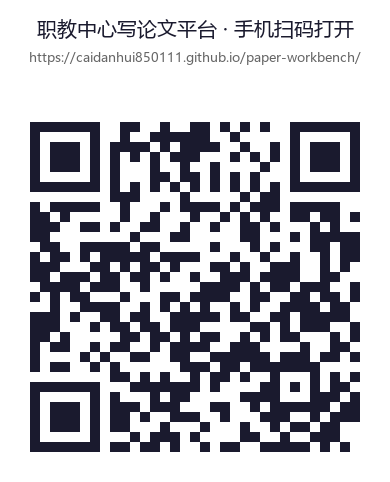
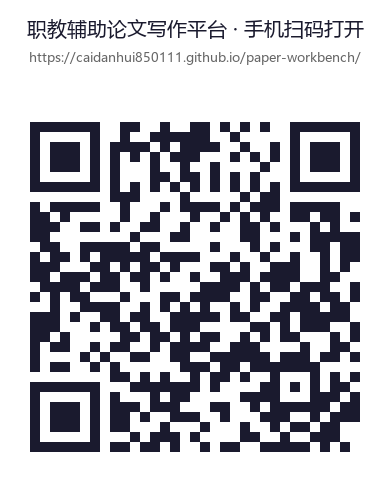
平台名称改为「职教辅助论文写作平台」（HTML/README/二维码/说明全量替换）

Changed region(s): [[0.0615, 0.0311, 0.9231, 0.0934]]

diff --git a/dist/index.html b/dist/index.html
@@ -8,7 +8,7 @@
 <meta http-equiv="Expires" content="0">
 <meta http-equiv="Pragma" content="no-cache">
 <meta http-equiv="Expires" content="0">
-<title>职教中心写论文平台 · 试水版 v0.1</title>
+<title>职教辅助论文写作平台 · 试水版 v0.1</title>
 <style>
 :root{
   --bg:#f4f5f9; --card:#ffffff; --card2:#f9fafc; --text:#1c2333; --muted:#6b7280; --line:#e5e7eb;
@@ -216,7 +216,7 @@ table.data td.l,table.data th.l{text-align:left}
     <button id="hamburger" class="btn tip" aria-label="菜单" data-tip="打开全部功能菜单（10 个模块）">
       <svg width="20" height="20" viewBox="0 0 24 24" fill="none" stroke="currentColor" stroke-width="2" stroke-linecap="round"><path d="M4 6h16M4 12h16M4 18h16"/></svg><span id="hb-label" style="display:none">菜单</span>
     </button>
-    <div class="page-title" id="page-title">职教中心写论文平台</div>
+    <div class="page-title" id="page-title">职教辅助论文写作平台</div>
     <div class="spacer"></div>
     <input id="search-input" placeholder="全局搜索…" autocomplete="off">
     <button id="today-btn" class="btn" title="今日待办">
@@ -1051,7 +1051,7 @@ const state={docId:null,chIdx:0,theme:'light',econStep:1,econDS:null,subTab:1};
 let currentPage='progress';
 function go(page,param){
   currentPage=page;state._p=param;
-  $('#page-title').textContent=(NAV.find(n=>n.id===page)||{}).name||'职教中心写论文平台';
+  $('#page-title').textContent=(NAV.find(n=>n.id===page)||{}).name||'职教辅助论文写作平台';
   renderNav();
   const c=$('#content');c.innerHTML='';
   PAGES[page](c,param);
@@ -1063,7 +1063,7 @@ window.addEventListener('popstate',()=>{
   const p=location.hash.replace('#','');
   if(p&&PAGES[p]){
     currentPage=p;
-    $('#page-title').textContent=(NAV.find(n=>n.id===p)||{}).name||'职教中心写论文平台';
+    $('#page-title').textContent=(NAV.find(n=>n.id===p)||{}).name||'职教辅助论文写作平台';
     renderNav();
     const c=$('#content');c.innerHTML='';
     PAGES[p](c,state._p);
@@ -1071,8 +1071,8 @@ window.addEventListener('popstate',()=>{
 });
 function renderNav(){
   const html=NAV.map(n=>`<button class="nav-item tip ${currentPage===n.id?'active':''}" data-page="${n.id}" data-tip="${esc(n.desc||'')}">${n.icon}<span>${n.name}</span></button>`).join('');
-  $('#sidebar').innerHTML=html+'<div class="side-foot">职教中心写论文平台 v0.1 · 试水版<br>数据保存在本浏览器 localStorage</div>';
-  $('#drawer').innerHTML='<div style="padding:8px 12px;font-weight:600;font-size:16px;margin-bottom:8px">职教中心写论文平台</div>'+html;
+  $('#sidebar').innerHTML=html+'<div class="side-foot">职教辅助论文写作平台 v0.1 · 试水版<br>数据保存在本浏览器 localStorage</div>';
+  $('#drawer').innerHTML='<div style="padding:8px 12px;font-weight:600;font-size:16px;margin-bottom:8px">职教辅助论文写作平台</div>'+html;
   $$('.nav-item').forEach(b=>b.onclick=()=>{closeDrawer();go(b.dataset.page);});
 }
 function openDrawer(){$('#drawer').classList.add('open');$('#drawer-mask').classList.add('open');}
@@ -2479,14 +2479,14 @@ function econExport(root,ds){
   $('#ex-csv').onclick=()=>{let csv=ds.headers.join(',')+'\n';ds.rows.forEach(r=>{csv+=ds.headers.map(h=>typeof r[h]==='number'?r[h]:String(r[h]??'')).join(',')+'\n';});download(ds.name+'_处理后.csv',csv,'text/csv;charset=utf-8');};
   $('#ex-do').onclick=()=>{
     const cols=numericCols(ds);
-    let dof='* 职教中心写论文平台生成 · 请用 Stata 复核\nclear\nimport delimited "data.csv", clear\n';
+    let dof='* 职教辅助论文写作平台生成 · 请用 Stata 复核\nclear\nimport delimited "data.csv", clear\n';
     cols.forEach(c=>dof+=`summarize ${c}\n`);
     if(ds._ols){const xs=ds._xNames.join(' ');dof+=`regress ${ds._yName} ${xs}\n`;}
     download(ds.name+'.do',dof);
   };
   $('#ex-r').onclick=()=>{
     const cols=numericCols(ds);
-    let rs='# 职教中心写论文平台生成 · 请用 R 复核\nlibrary(tidyverse)\n';
+    let rs='# 职教辅助论文写作平台生成 · 请用 R 复核\nlibrary(tidyverse)\n';
     rs+=`df <- read.csv("data.csv")\n`;
     rs+=`summary(df)\n`;
     if(ds._ols){rs+=`fit <- lm(${ds._yName} ~ ${ds._xNames.join(' + ')}, data=df)\nsummary(fit)\n`;}
@@ -2888,7 +2888,7 @@ function settingsPage(root){
   <div class="card">
     <h3>关于</h3>
     <div class="muted" style="font-size:13px;line-height:1.8">
-      职教中心写论文平台 v0.1 · 试水版（2026-08-03）<br>
+      职教辅助论文写作平台 v0.1 · 试水版（2026-08-03）<br>
       · 纯前端零依赖，数据存浏览器本地；<br>
       · 选刊为统计关键词匹配，计量计算在本地完成，正式投稿请用 Stata/R 复核；<br>
       · 配 LLM Key 后启用真 AI（默认 DeepSeek），未配则用本地模板；<br>
@@ -2899,10 +2899,10 @@ function settingsPage(root){
   $$('[data-theme]',root).forEach(b=>b.onclick=()=>{st.theme=b.dataset.theme;Settings.save(st);apply();});
   $('#set-save').onclick=()=>{cfg.provider=$('#set-prov').value;cfg.apiKey=$('#set-key').value.trim();cfg.baseUrl=$('#set-base').value.trim();cfg.model=$('#set-model').value.trim()||'deepseek-chat';cfg.enabled=!!cfg.apiKey;LLM.save(cfg);$('#set-state').textContent=cfg.enabled?'已启用':'未启用（模板模式）';toast('配置已保存'+(cfg.enabled?'，LLM 已启用':'，未启用'));};
   $('#set-test').onclick=async()=>{cfg.apiKey=$('#set-key').value.trim();cfg.baseUrl=$('#set-base').value.trim();cfg.model=$('#set-model').value.trim()||'deepseek-chat';LLM.save(cfg);const s=$('#set-state');s.textContent='测试中…';try{const r=await llmAsk('你好，请回复"连接正常"四个字。');s.textContent=r.includes('连接正常')?'连接正常 ✓':('返回：'+r.slice(0,20));toast('连接测试完成');}catch(e){s.textContent='连接失败：'+e.message;toast('连接失败');}};
-  $('#set-export').onclick=()=>{download('职教中心写论文平台备份_'+todayStr()+'.json',JSON.stringify(Store.all(),null,2),'application/json');toast('备份已导出');};
+  $('#set-export').onclick=()=>{download('职教辅助论文写作平台备份_'+todayStr()+'.json',JSON.stringify(Store.all(),null,2),'application/json');toast('备份已导出');};
   $('#set-import').onclick=()=>$('#set-import-file').click();
   $('#set-import-file').onchange=e=>{const f=e.target.files[0];if(!f)return;const rd=new FileReader();rd.onload=()=>{try{const data=JSON.parse(rd.result);let n=0;Object.entries(data).forEach(([k,v])=>{if(k.startsWith('paperwb_')){localStorage.setItem(k,JSON.stringify(v));n++;}});toast('已导入 '+n+' 组数据');settingsPage(root);}catch(err){toast('文件格式错误');}};rd.readAsText(f);};
-  $('#set-clear').onclick=()=>confirm2('清空全部数据不可恢复！将先自动导出一份备份，确认清空？',()=>{download('职教中心写论文平台备份_清空前_'+todayStr()+'.json',JSON.stringify(Store.all(),null,2),'application/json');Object.values(K).forEach(k=>localStorage.removeItem(k));ensureData();settingsPage(root);toast('已清空并重置示例数据');});
+  $('#set-clear').onclick=()=>confirm2('清空全部数据不可恢复！将先自动导出一份备份，确认清空？',()=>{download('职教辅助论文写作平台备份_清空前_'+todayStr()+'.json',JSON.stringify(Store.all(),null,2),'application/json');Object.values(K).forEach(k=>localStorage.removeItem(k));ensureData();settingsPage(root);toast('已清空并重置示例数据');});
   $('#set-clear-sample').onclick=()=>confirm2('清空示例数据（保留你手动添加的内容）？',()=>{Store.del(K.journals);Store.del(K.lits);Store.del(K.subs);ensureData();toast('示例数据已重置');});
 }
 

diff --git a/index.html b/index.html
@@ -8,7 +8,7 @@
 <meta http-equiv="Expires" content="0">
 <meta http-equiv="Pragma" content="no-cache">
 <meta http-equiv="Expires" content="0">
-<title>职教中心写论文平台 · 试水版 v0.1</title>
+<title>职教辅助论文写作平台 · 试水版 v0.1</title>
 <style>
 :root{
   --bg:#f4f5f9; --card:#ffffff; --card2:#f9fafc; --text:#1c2333; --muted:#6b7280; --line:#e5e7eb;
@@ -216,7 +216,7 @@ table.data td.l,table.data th.l{text-align:left}
     <button id="hamburger" class="btn tip" aria-label="菜单" data-tip="打开全部功能菜单（10 个模块）">
       <svg width="20" height="20" viewBox="0 0 24 24" fill="none" stroke="currentColor" stroke-width="2" stroke-linecap="round"><path d="M4 6h16M4 12h16M4 18h16"/></svg><span id="hb-label" style="display:none">菜单</span>
     </button>
-    <div class="page-title" id="page-title">职教中心写论文平台</div>
+    <div class="page-title" id="page-title">职教辅助论文写作平台</div>
     <div class="spacer"></div>
     <input id="search-input" placeholder="全局搜索…" autocomplete="off">
     <button id="today-btn" class="btn" title="今日待办">
@@ -1051,7 +1051,7 @@ const state={docId:null,chIdx:0,theme:'light',econStep:1,econDS:null,subTab:1};
 let currentPage='progress';
 function go(page,param){
   currentPage=page;state._p=param;
-  $('#page-title').textContent=(NAV.find(n=>n.id===page)||{}).name||'职教中心写论文平台';
+  $('#page-title').textContent=(NAV.find(n=>n.id===page)||{}).name||'职教辅助论文写作平台';
   renderNav();
   const c=$('#content');c.innerHTML='';
   PAGES[page](c,param);
@@ -1063,7 +1063,7 @@ window.addEventListener('popstate',()=>{
   const p=location.hash.replace('#','');
   if(p&&PAGES[p]){
     currentPage=p;
-    $('#page-title').textContent=(NAV.find(n=>n.id===p)||{}).name||'职教中心写论文平台';
+    $('#page-title').textContent=(NAV.find(n=>n.id===p)||{}).name||'职教辅助论文写作平台';
     renderNav();
     const c=$('#content');c.innerHTML='';
     PAGES[p](c,state._p);
@@ -1071,8 +1071,8 @@ window.addEventListener('popstate',()=>{
 });
 function renderNav(){
   const html=NAV.map(n=>`<button class="nav-item tip ${currentPage===n.id?'active':''}" data-page="${n.id}" data-tip="${esc(n.desc||'')}">${n.icon}<span>${n.name}</span></button>`).join('');
-  $('#sidebar').innerHTML=html+'<div class="side-foot">职教中心写论文平台 v0.1 · 试水版<br>数据保存在本浏览器 localStorage</div>';
-  $('#drawer').innerHTML='<div style="padding:8px 12px;font-weight:600;font-size:16px;margin-bottom:8px">职教中心写论文平台</div>'+html;
+  $('#sidebar').innerHTML=html+'<div class="side-foot">职教辅助论文写作平台 v0.1 · 试水版<br>数据保存在本浏览器 localStorage</div>';
+  $('#drawer').innerHTML='<div style="padding:8px 12px;font-weight:600;font-size:16px;margin-bottom:8px">职教辅助论文写作平台</div>'+html;
   $$('.nav-item').forEach(b=>b.onclick=()=>{closeDrawer();go(b.dataset.page);});
 }
 function openDrawer(){$('#drawer').classList.add('open');$('#drawer-mask').classList.add('open');}
@@ -2479,14 +2479,14 @@ function econExport(root,ds){
   $('#ex-csv').onclick=()=>{let csv=ds.headers.join(',')+'\n';ds.rows.forEach(r=>{csv+=ds.headers.map(h=>typeof r[h]==='number'?r[h]:String(r[h]??'')).join(',')+'\n';});download(ds.name+'_处理后.csv',csv,'text/csv;charset=utf-8');};
   $('#ex-do').onclick=()=>{
     const cols=numericCols(ds);
-    let dof='* 职教中心写论文平台生成 · 请用 Stata 复核\nclear\nimport delimited "data.csv", clear\n';
+    let dof='* 职教辅助论文写作平台生成 · 请用 Stata 复核\nclear\nimport delimited "data.csv", clear\n';
     cols.forEach(c=>dof+=`summarize ${c}\n`);
     if(ds._ols){const xs=ds._xNames.join(' ');dof+=`regress ${ds._yName} ${xs}\n`;}
     download(ds.name+'.do',dof);
   };
   $('#ex-r').onclick=()=>{
     const cols=numericCols(ds);
-    let rs='# 职教中心写论文平台生成 · 请用 R 复核\nlibrary(tidyverse)\n';
+    let rs='# 职教辅助论文写作平台生成 · 请用 R 复核\nlibrary(tidyverse)\n';
     rs+=`df <- read.csv("data.csv")\n`;
     rs+=`summary(df)\n`;
     if(ds._ols){rs+=`fit <- lm(${ds._yName} ~ ${ds._xNames.join(' + ')}, data=df)\nsummary(fit)\n`;}
@@ -2888,7 +2888,7 @@ function settingsPage(root){
   <div class="card">
     <h3>关于</h3>
     <div class="muted" style="font-size:13px;line-height:1.8">
-      职教中心写论文平台 v0.1 · 试水版（2026-08-03）<br>
+      职教辅助论文写作平台 v0.1 · 试水版（2026-08-03）<br>
       · 纯前端零依赖，数据存浏览器本地；<br>
       · 选刊为统计关键词匹配，计量计算在本地完成，正式投稿请用 Stata/R 复核；<br>
       · 配 LLM Key 后启用真 AI（默认 DeepSeek），未配则用本地模板；<br>
@@ -2899,10 +2899,10 @@ function settingsPage(root){
   $$('[data-theme]',root).forEach(b=>b.onclick=()=>{st.theme=b.dataset.theme;Settings.save(st);apply();});
   $('#set-save').onclick=()=>{cfg.provider=$('#set-prov').value;cfg.apiKey=$('#set-key').value.trim();cfg.baseUrl=$('#set-base').value.trim();cfg.model=$('#set-model').value.trim()||'deepseek-chat';cfg.enabled=!!cfg.apiKey;LLM.save(cfg);$('#set-state').textContent=cfg.enabled?'已启用':'未启用（模板模式）';toast('配置已保存'+(cfg.enabled?'，LLM 已启用':'，未启用'));};
   $('#set-test').onclick=async()=>{cfg.apiKey=$('#set-key').value.trim();cfg.baseUrl=$('#set-base').value.trim();cfg.model=$('#set-model').value.trim()||'deepseek-chat';LLM.save(cfg);const s=$('#set-state');s.textContent='测试中…';try{const r=await llmAsk('你好，请回复"连接正常"四个字。');s.textContent=r.includes('连接正常')?'连接正常 ✓':('返回：'+r.slice(0,20));toast('连接测试完成');}catch(e){s.textContent='连接失败：'+e.message;toast('连接失败');}};
-  $('#set-export').onclick=()=>{download('职教中心写论文平台备份_'+todayStr()+'.json',JSON.stringify(Store.all(),null,2),'application/json');toast('备份已导出');};
+  $('#set-export').onclick=()=>{download('职教辅助论文写作平台备份_'+todayStr()+'.json',JSON.stringify(Store.all(),null,2),'application/json');toast('备份已导出');};
   $('#set-import').onclick=()=>$('#set-import-file').click();
   $('#set-import-file').onchange=e=>{const f=e.target.files[0];if(!f)return;const rd=new FileReader();rd.onload=()=>{try{const data=JSON.parse(rd.result);let n=0;Object.entries(data).forEach(([k,v])=>{if(k.startsWith('paperwb_')){localStorage.setItem(k,JSON.stringify(v));n++;}});toast('已导入 '+n+' 组数据');settingsPage(root);}catch(err){toast('文件格式错误');}};rd.readAsText(f);};
-  $('#set-clear').onclick=()=>confirm2('清空全部数据不可恢复！将先自动导出一份备份，确认清空？',()=>{download('职教中心写论文平台备份_清空前_'+todayStr()+'.json',JSON.stringify(Store.all(),null,2),'application/json');Object.values(K).forEach(k=>localStorage.removeItem(k));ensureData();settingsPage(root);toast('已清空并重置示例数据');});
+  $('#set-clear').onclick=()=>confirm2('清空全部数据不可恢复！将先自动导出一份备份，确认清空？',()=>{download('职教辅助论文写作平台备份_清空前_'+todayStr()+'.json',JSON.stringify(Store.all(),null,2),'application/json');Object.values(K).forEach(k=>localStorage.removeItem(k));ensureData();settingsPage(root);toast('已清空并重置示例数据');});
   $('#set-clear-sample').onclick=()=>confirm2('清空示例数据（保留你手动添加的内容）？',()=>{Store.del(K.journals);Store.del(K.lits);Store.del(K.subs);ensureData();toast('示例数据已重置');});
 }
 

diff --git a/论文工作台_试水版.html b/论文工作台_试水版.html
@@ -8,7 +8,7 @@
 <meta http-equiv="Expires" content="0">
 <meta http-equiv="Pragma" content="no-cache">
 <meta http-equiv="Expires" content="0">
-<title>职教中心写论文平台 · 试水版 v0.1</title>
+<title>职教辅助论文写作平台 · 试水版 v0.1</title>
 <style>
 :root{
   --bg:#f4f5f9; --card:#ffffff; --card2:#f9fafc; --text:#1c2333; --muted:#6b7280; --line:#e5e7eb;
@@ -216,7 +216,7 @@ table.data td.l,table.data th.l{text-align:left}
     <button id="hamburger" class="btn tip" aria-label="菜单" data-tip="打开全部功能菜单（10 个模块）">
       <svg width="20" height="20" viewBox="0 0 24 24" fill="none" stroke="currentColor" stroke-width="2" stroke-linecap="round"><path d="M4 6h16M4 12h16M4 18h16"/></svg><span id="hb-label" style="display:none">菜单</span>
     </button>
-    <div class="page-title" id="page-title">职教中心写论文平台</div>
+    <div class="page-title" id="page-title">职教辅助论文写作平台</div>
     <div class="spacer"></div>
     <input id="search-input" placeholder="全局搜索…" autocomplete="off">
     <button id="today-btn" class="btn" title="今日待办">
@@ -1051,7 +1051,7 @@ const state={docId:null,chIdx:0,theme:'light',econStep:1,econDS:null,subTab:1};
 let currentPage='progress';
 function go(page,param){
   currentPage=page;state._p=param;
-  $('#page-title').textContent=(NAV.find(n=>n.id===page)||{}).name||'职教中心写论文平台';
+  $('#page-title').textContent=(NAV.find(n=>n.id===page)||{}).name||'职教辅助论文写作平台';
   renderNav();
   const c=$('#content');c.innerHTML='';
   PAGES[page](c,param);
@@ -1063,7 +1063,7 @@ window.addEventListener('popstate',()=>{
   const p=location.hash.replace('#','');
   if(p&&PAGES[p]){
     currentPage=p;
-    $('#page-title').textContent=(NAV.find(n=>n.id===p)||{}).name||'职教中心写论文平台';
+    $('#page-title').textContent=(NAV.find(n=>n.id===p)||{}).name||'职教辅助论文写作平台';
     renderNav();
     const c=$('#content');c.innerHTML='';
     PAGES[p](c,state._p);
@@ -1071,8 +1071,8 @@ window.addEventListener('popstate',()=>{
 });
 function renderNav(){
   const html=NAV.map(n=>`<button class="nav-item tip ${currentPage===n.id?'active':''}" data-page="${n.id}" data-tip="${esc(n.desc||'')}">${n.icon}<span>${n.name}</span></button>`).join('');
-  $('#sidebar').innerHTML=html+'<div class="side-foot">职教中心写论文平台 v0.1 · 试水版<br>数据保存在本浏览器 localStorage</div>';
-  $('#drawer').innerHTML='<div style="padding:8px 12px;font-weight:600;font-size:16px;margin-bottom:8px">职教中心写论文平台</div>'+html;
+  $('#sidebar').innerHTML=html+'<div class="side-foot">职教辅助论文写作平台 v0.1 · 试水版<br>数据保存在本浏览器 localStorage</div>';
+  $('#drawer').innerHTML='<div style="padding:8px 12px;font-weight:600;font-size:16px;margin-bottom:8px">职教辅助论文写作平台</div>'+html;
   $$('.nav-item').forEach(b=>b.onclick=()=>{closeDrawer();go(b.dataset.page);});
 }
 function openDrawer(){$('#drawer').classList.add('open');$('#drawer-mask').classList.add('open');}
@@ -2479,14 +2479,14 @@ function econExport(root,ds){
   $('#ex-csv').onclick=()=>{let csv=ds.headers.join(',')+'\n';ds.rows.forEach(r=>{csv+=ds.headers.map(h=>typeof r[h]==='number'?r[h]:String(r[h]??'')).join(',')+'\n';});download(ds.name+'_处理后.csv',csv,'text/csv;charset=utf-8');};
   $('#ex-do').onclick=()=>{
     const cols=numericCols(ds);
-    let dof='* 职教中心写论文平台生成 · 请用 Stata 复核\nclear\nimport delimited "data.csv", clear\n';
+    let dof='* 职教辅助论文写作平台生成 · 请用 Stata 复核\nclear\nimport delimited "data.csv", clear\n';
     cols.forEach(c=>dof+=`summarize ${c}\n`);
     if(ds._ols){const xs=ds._xNames.join(' ');dof+=`regress ${ds._yName} ${xs}\n`;}
     download(ds.name+'.do',dof);
   };
   $('#ex-r').onclick=()=>{
     const cols=numericCols(ds);
-    let rs='# 职教中心写论文平台生成 · 请用 R 复核\nlibrary(tidyverse)\n';
+    let rs='# 职教辅助论文写作平台生成 · 请用 R 复核\nlibrary(tidyverse)\n';
     rs+=`df <- read.csv("data.csv")\n`;
     rs+=`summary(df)\n`;
     if(ds._ols){rs+=`fit <- lm(${ds._yName} ~ ${ds._xNames.join(' + ')}, data=df)\nsummary(fit)\n`;}
@@ -2888,7 +2888,7 @@ function settingsPage(root){
   <div class="card">
     <h3>关于</h3>
     <div class="muted" style="font-size:13px;line-height:1.8">
-      职教中心写论文平台 v0.1 · 试水版（2026-08-03）<br>
+      职教辅助论文写作平台 v0.1 · 试水版（2026-08-03）<br>
       · 纯前端零依赖，数据存浏览器本地；<br>
       · 选刊为统计关键词匹配，计量计算在本地完成，正式投稿请用 Stata/R 复核；<br>
       · 配 LLM Key 后启用真 AI（默认 DeepSeek），未配则用本地模板；<br>
@@ -2899,10 +2899,10 @@ function settingsPage(root){
   $$('[data-theme]',root).forEach(b=>b.onclick=()=>{st.theme=b.dataset.theme;Settings.save(st);apply();});
   $('#set-save').onclick=()=>{cfg.provider=$('#set-prov').value;cfg.apiKey=$('#set-key').value.trim();cfg.baseUrl=$('#set-base').value.trim();cfg.model=$('#set-model').value.trim()||'deepseek-chat';cfg.enabled=!!cfg.apiKey;LLM.save(cfg);$('#set-state').textContent=cfg.enabled?'已启用':'未启用（模板模式）';toast('配置已保存'+(cfg.enabled?'，LLM 已启用':'，未启用'));};
   $('#set-test').onclick=async()=>{cfg.apiKey=$('#set-key').value.trim();cfg.baseUrl=$('#set-base').value.trim();cfg.model=$('#set-model').value.trim()||'deepseek-chat';LLM.save(cfg);const s=$('#set-state');s.textContent='测试中…';try{const r=await llmAsk('你好，请回复"连接正常"四个字。');s.textContent=r.includes('连接正常')?'连接正常 ✓':('返回：'+r.slice(0,20));toast('连接测试完成');}catch(e){s.textContent='连接失败：'+e.message;toast('连接失败');}};
-  $('#set-export').onclick=()=>{download('职教中心写论文平台备份_'+todayStr()+'.json',JSON.stringify(Store.all(),null,2),'application/json');toast('备份已导出');};
+  $('#set-export').onclick=()=>{download('职教辅助论文写作平台备份_'+todayStr()+'.json',JSON.stringify(Store.all(),null,2),'application/json');toast('备份已导出');};
   $('#set-import').onclick=()=>$('#set-import-file').click();
   $('#set-import-file').onchange=e=>{const f=e.target.files[0];if(!f)return;const rd=new FileReader();rd.onload=()=>{try{const data=JSON.parse(rd.result);let n=0;Object.entries(data).forEach(([k,v])=>{if(k.startsWith('paperwb_')){localStorage.setItem(k,JSON.stringify(v));n++;}});toast('已导入 '+n+' 组数据');settingsPage(root);}catch(err){toast('文件格式错误');}};rd.readAsText(f);};
-  $('#set-clear').onclick=()=>confirm2('清空全部数据不可恢复！将先自动导出一份备份，确认清空？',()=>{download('职教中心写论文平台备份_清空前_'+todayStr()+'.json',JSON.stringify(Store.all(),null,2),'application/json');Object.values(K).forEach(k=>localStorage.removeItem(k));ensureData();settingsPage(root);toast('已清空并重置示例数据');});
+  $('#set-clear').onclick=()=>confirm2('清空全部数据不可恢复！将先自动导出一份备份，确认清空？',()=>{download('职教辅助论文写作平台备份_清空前_'+todayStr()+'.json',JSON.stringify(Store.all(),null,2),'application/json');Object.values(K).forEach(k=>localStorage.removeItem(k));ensureData();settingsPage(root);toast('已清空并重置示例数据');});
   $('#set-clear-sample').onclick=()=>confirm2('清空示例数据（保留你手动添加的内容）？',()=>{Store.del(K.journals);Store.del(K.lits);Store.del(K.subs);ensureData();toast('示例数据已重置');});
 }
 

diff --git a/README.md b/README.md
@@ -1,4 +1,4 @@
-# 职教中心写论文平台（Paper Workbench）
+# 职教辅助论文写作平台（Paper Workbench）
 
 一个面向**中小学/中职教师**的论文写作全流程工作台。纯前端单文件 HTML，零依赖、零运维、离线可用，手机电脑双适配。
 
